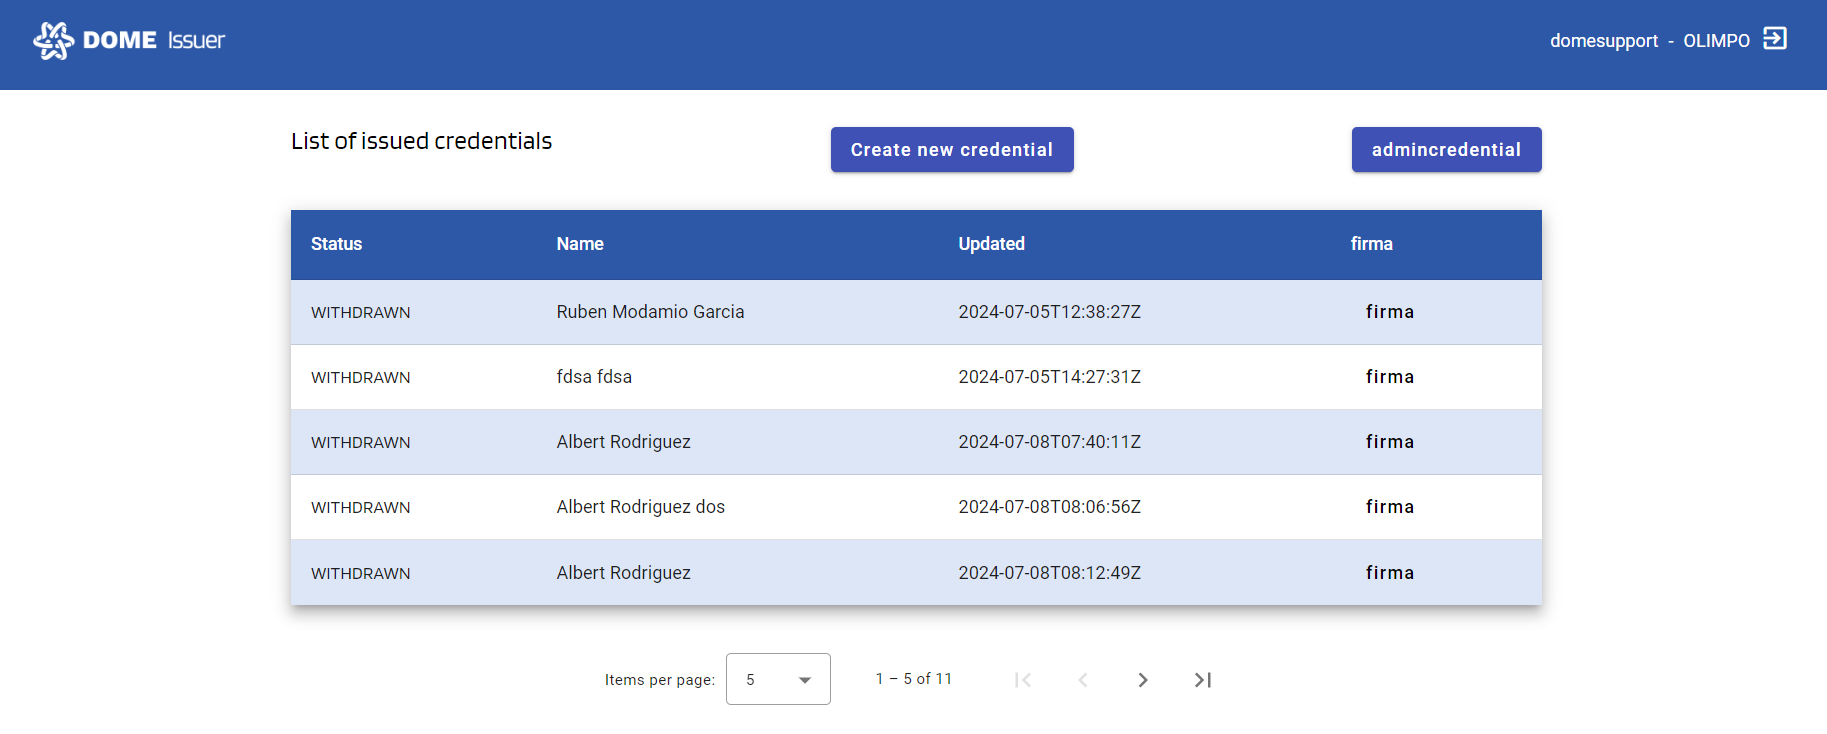
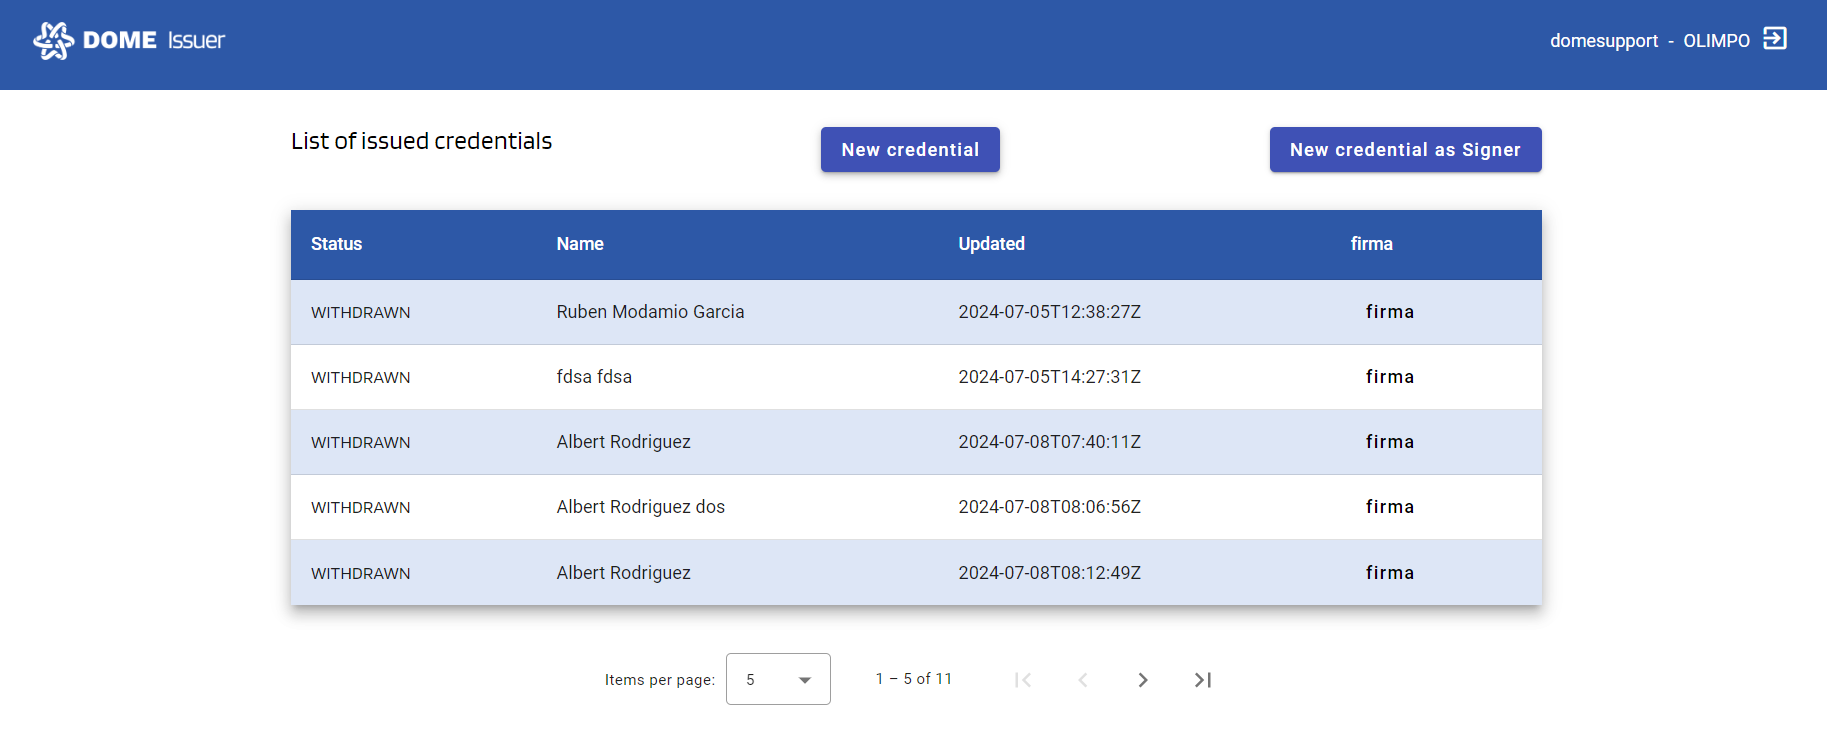
update images and text

Changed region(s): [[0.4368, 0.1499, 0.5928, 0.2398], [0.6864, 0.1499, 0.8424, 0.2398]]

diff --git a/README.md b/README.md
@@ -23,7 +23,7 @@ You will enter the issued credentials list view:
 ## Issuance of LEAR Credential Employee with a Signer Account
 Complete process of issuing a new LEAR Credential Employee. As a Signer account you will issue Credentials on behalf of a Mandator that don't have available a Digital Certificate for the signature.
 ### Step 1: New Credential Form
-To create a Verifiable Credential and signed it as IN2, click the "**admincredential**" button, which will take you to the creation form.
+To create a Verifiable Credential, click the "**New credential as Signer**" button, which will take you to the creation form.
 
 ![Credential Issuer New Credential Form](./assets/05.png)
 
